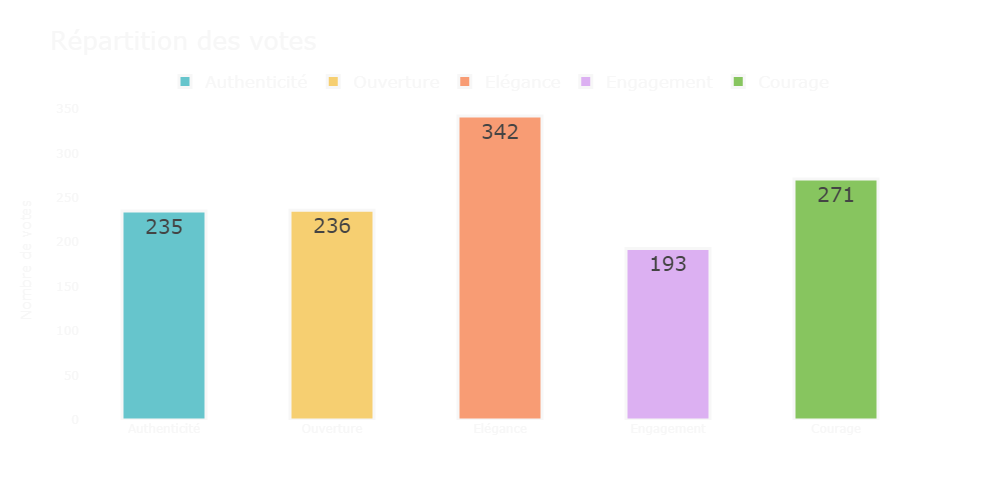
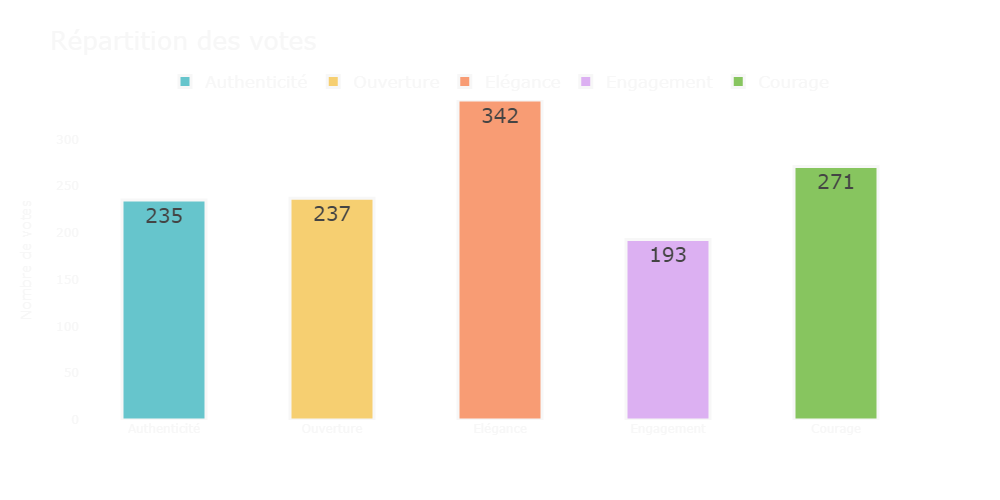
Ajout cas début vote si base vide alors ne lance pas d'erreur

diff --git a/connexion_mongodb.py b/connexion_mongodb.py
@@ -6,6 +6,7 @@ import pandas as pd
 # import matplotlib.pyplot as plt
 # from matplotlib.figure import Figure
 from PIL import Image
+import numpy as np
 import io
 
 pd.options.plotting.backend = "plotly"
@@ -44,11 +45,12 @@ def make_request(collection, request):
 
 
 def retrieve_votants(df_vote):
-    df_counts = []
+    df_counts = pd.DataFrame(0, index=np.arange(0,5), columns=np.arange(1))[0]
     try:
         df_votants = df_vote[~df_vote["_id"].str.contains("NoVote")]
         df_counts = df_votants['VoteValue'].value_counts().sort_index()
     finally:
+
         return df_counts
 
 
@@ -113,10 +115,9 @@ def draw_horizontal_bar_plotly(dataframe, filename, title, engine="kaleido"):
 def draw_horizontal_bar_plotly_opt2(dataframe, filename, title, engine="kaleido") :
     fig = px.bar(dataframe, x="Valeurs", y="vote", title=title, text_auto=True, barmode='relative', labels={},
                  color="Valeurs", color_discrete_sequence=px.colors.qualitative.Pastel, height=500, width=1000)
-    fig.update_layout(legend=dict(orientation="h", yanchor="bottom", y=1, xanchor="center", x=0.5),
-                      uniformtext_minsize=10, uniformtext_mode='hide', font_color="#f7f7f7")
+    fig.update_layout(legend=dict(orientation="h", yanchor="bottom", y=1, xanchor="center", x=0.5), font_color="#f7f7f7")
     fig.update_xaxes(showgrid=False)
-    fig.update_yaxes(showgrid=False)
+    fig.update_yaxes(showgrid=False, range=[0, max(dataframe['vote'])])
     fig.update_layout(paper_bgcolor='rgba(0,0,0,0)', plot_bgcolor='rgba(0,0,0,0)', bargap=0.5)
     fig.update_traces(textposition='inside', marker=dict(line=dict(color="#f7f7f7", width=3)), textfont_size=20)
     fig.update_layout(xaxis_title=None, yaxis_title="Nombre de votes", legend_font_size=17, title_font_size=25,

diff --git a/VotingBooth.py b/VotingBooth.py
@@ -251,7 +251,8 @@ def inject_load():
     refresh = datetime.now(tz=None).strftime("%a %d %b %H:%M:%S")
     df_vote = mongof.make_request(collection_inauguration, request)
     df_votants = mongof.retrieve_votants(df_vote)
-    number_frame = 0 if collection_inauguration.count_documents({}) is None else collection_inauguration.count_documents({})
+
+    number_frame = collection_inauguration.count_documents({})
     nb_gauche = collection_inauguration.count_documents({'hand': 'Gauche'})
     nb_droite = collection_inauguration.count_documents({'hand': 'Droite'})
     taux_utilisation = str(0 if number_frame == 0 else round_up(100*(nb_droite + nb_gauche) / number_frame, 2))
